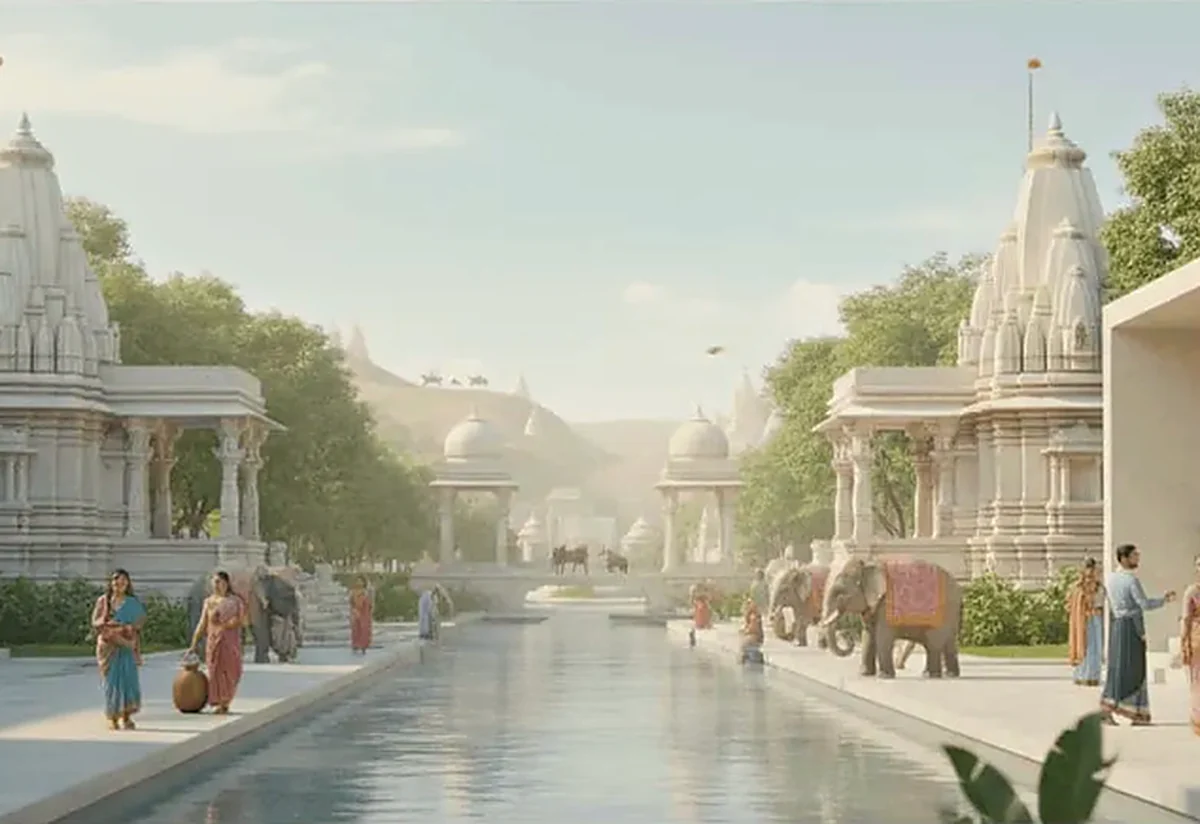
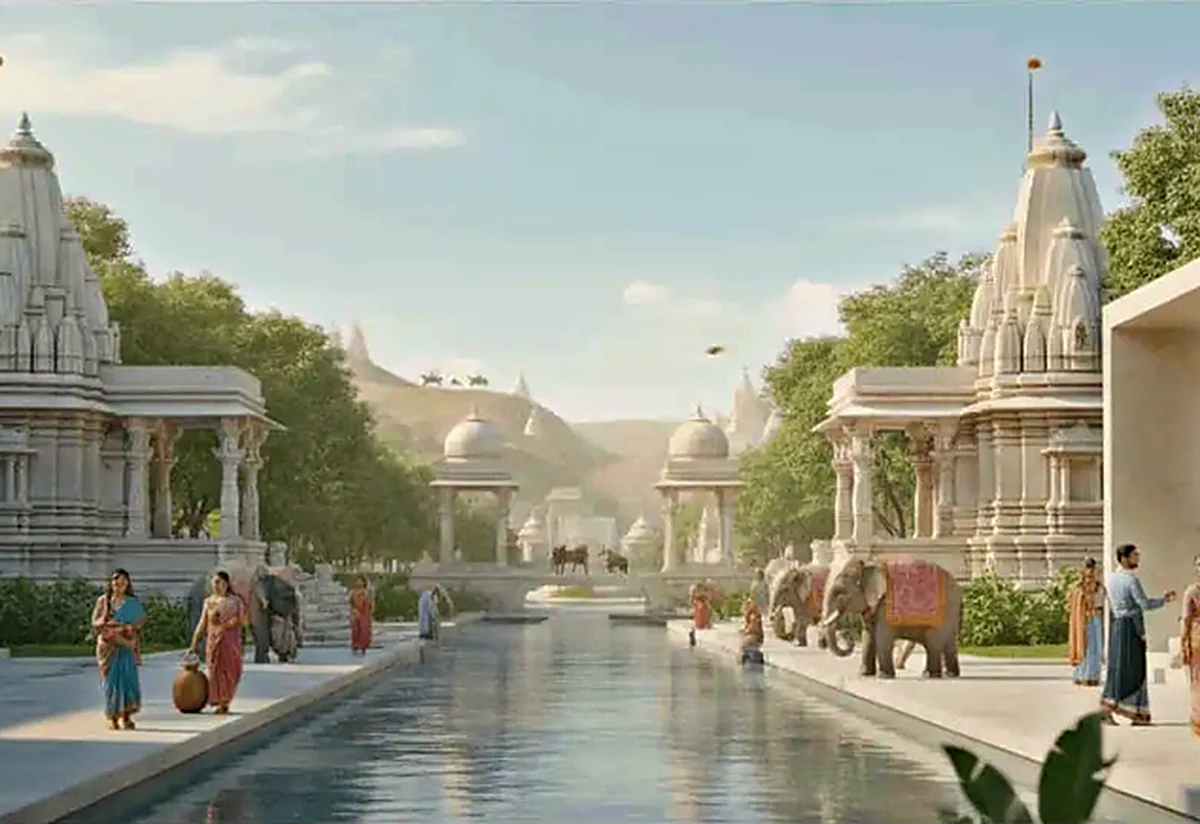
hero: dehazed, clearer background photo and lighter overlay
- Rebuild Temple-hero images with dark-channel dehaze + clarity from the source
- Lighten hero overlay and soften CSS filter so the photo shows through
- Stronger shadow on the gold "Marriage Bureau" line for legibility

Claude-Session: https://claude.ai/code/session_01P6rgZRRKyVktY7iey7xTwv

diff --git a/index.html b/index.html
@@ -851,20 +851,20 @@ body{font-size:18px;}
   top:0 !important;bottom:0 !important;left:0 !important;right:0 !important;
   background-image:url('Assets/Temple-hero.webp');
   background-size:cover;background-position:50% 58%;
-  filter:contrast(1.06) saturate(1.08);
+  filter:contrast(1.03) saturate(1.04);
   animation:heroSettle 2.4s cubic-bezier(.22,1,.36,1) both;
 }
 @keyframes heroSettle{from{transform:scale(1.045);}to{transform:scale(1);}}
 .hero-section::before{
   background:
-    radial-gradient(ellipse 56% 50% at 50% 50%,rgba(26,8,6,0.44) 0%,rgba(26,8,6,0.16) 62%,transparent 82%),
-    linear-gradient(to bottom,rgba(26,8,6,0.22) 0%,transparent 22%,transparent 62%,rgba(26,8,6,0.55) 100%) !important;
+    radial-gradient(ellipse 50% 44% at 50% 50%,rgba(26,8,6,0.36) 0%,rgba(26,8,6,0.12) 60%,transparent 80%),
+    linear-gradient(to bottom,rgba(26,8,6,0.10) 0%,transparent 20%,transparent 66%,rgba(26,8,6,0.42) 100%) !important;
 }
 .hero-tag{color:#F3E2B3 !important;font-weight:500;font-size:0.68rem;letter-spacing:0.34em;text-shadow:0 1px 3px rgba(0,0,0,0.7) !important;}
 .hero-tag::before,.hero-tag::after{background:rgba(243,226,179,0.7) !important;width:40px;}
 .hero-brand{font-weight:500;font-size:clamp(2.4rem,5vw,4rem);letter-spacing:0.1em;line-height:1.05;margin-bottom:1.3rem;
   text-shadow:0 2px 28px rgba(0,0,0,0.45),0 1px 2px rgba(0,0,0,0.35);}
-.hb-sub{display:block;font-size:0.36em;font-weight:500;letter-spacing:0.62em;margin-top:0.9em;padding-left:0.62em;color:#F3E2B3;}
+.hb-sub{display:block;font-size:0.36em;font-weight:500;letter-spacing:0.62em;margin-top:0.9em;padding-left:0.62em;color:#F3E2B3;text-shadow:0 1px 3px rgba(0,0,0,0.75),0 2px 16px rgba(0,0,0,0.5);}
 .hero-h1{font-weight:400;color:#FFF8E7;text-wrap:balance;}
 .hero-h1::before{content:'';display:block;width:56px;height:1px;background:#D4AF37;margin:0 auto 1.1rem;}
 .hero-h2{color:rgba(255,248,231,0.86);}
